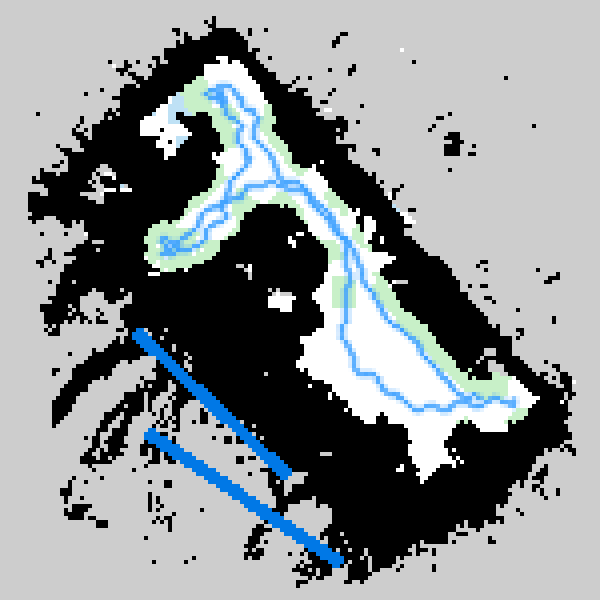
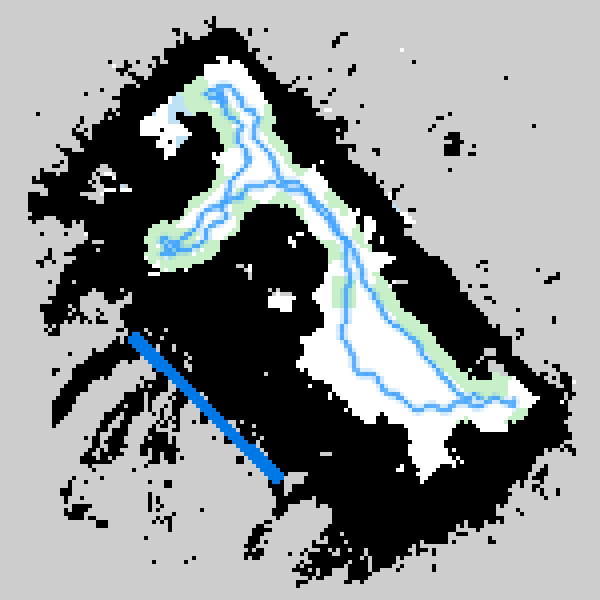
Glass walls: place at the density cliff, draw only when certain (on by default)
Across a candidate wall line, walking outward from the cameras: room contents
(dense), a sharp density cliff (stereo puts almost nothing on glass), >= 0.5 m
of near-empty space (reflections / see-through haze, < 5% of the room's peak
density), then real geometry beyond. The wall goes at the cliff; if any part
of that signature is missing, the line is skipped and nothing is drawn.
Parallel duplicates within 0.4 m are merged.

Real captures: office -> one 2.5 m glass wall at the room edge (previously
~1 m out in the atrium clutter); apartment -> none, map unchanged.

Changed region(s): [[0.21, 0.54, 0.57, 0.96]]

diff --git a/recon/robot_map.py b/recon/robot_map.py
@@ -102,7 +102,8 @@ def fit_floor(P, up, cam_centres, iters=600, seed=0, min_rel_support=0.10, min_d
 
 
 def find_glass_walls(Pw, Cw, z_band=(0.2, 2.2), thr=0.05, min_inliers=200, min_len=1.5,
-                     behind_min=1.0, behind_ratio=1.0, max_walls=6, suppress=0.3, seed=0):
+                     behind_min=1.0, behind_ratio=1.0, max_walls=6, suppress=0.3, seed=0,
+                     gap_bin=0.1, cliff_frac=0.1, low_frac=0.05, low_len=0.5, beyond_frac=0.05):
     """Vertical planes (lines in top view) that look like glass: things are seen *behind*
     them, on the side the walker never was.
 
@@ -110,9 +111,10 @@ def find_glass_walls(Pw, Cw, z_band=(0.2, 2.2), thr=0.05, min_inliers=200, min_l
     or window has a frame/mullions (some points on the line) and the world behind it
     (many points beyond). Returns [(p0, p1, ratio_behind)] segment endpoints in XY.
 
-    EXPERIMENTAL (build(detect_glass=True)): on the real office it found the glass side
-    and nothing in the apartment, but placed the line ~1 m beyond the glass, inside the
-    see-through clutter -- stereo rarely puts points on the glass itself."""
+    The wall is placed at the density cliff where the room's contents end (stereo puts
+    almost nothing on glass), and only when that cliff is followed by >= 0.5 m of
+    near-empty space and then real geometry beyond; otherwise the line is skipped, so the
+    detector only draws walls it is confident about."""
     rng = np.random.default_rng(seed)
     z = Pw[:, 2]
     Q = Pw[(z > z_band[0]) & (z < z_band[1]), :2]
@@ -162,14 +164,57 @@ def find_glass_walls(Pw, Cw, z_band=(0.2, 2.2), thr=0.05, min_inliers=200, min_l
         within = (along > t0) & (along < t1)
         behind = within & (dist_r * walk_side < -behind_min)
         ratio = behind.sum() / max(inl.sum(), 1)
-        if ratio > behind_ratio:
-            walls.append((a + t0 * t_dir, a + t1 * t_dir, float(ratio)))
+        if ratio <= behind_ratio:
+            continue
+        # Where is the glass? Walking from the cameras outward: room contents (dense, the
+        # peak is furniture against the glass), then a sharp density cliff (stereo puts
+        # almost nothing on glass), a long low stretch (reflections, see-through haze),
+        # and the world beyond. Wall goes at the cliff -- only if all of that is clearly
+        # there; otherwise this line is skipped (no guess).
+        sd = dist_r[within] * walk_side                 # + = walker's side
+        cam_s = np.median(c_dist[span] * walk_side)
+        edges = np.arange(-4.0, cam_s + gap_bin, gap_bin)
+        hist, edges = np.histogram(sd, bins=edges)
+        room_side = edges[:-1] >= 0
+        if not room_side.any() or hist[room_side].max() < min_inliers:
+            continue
+        peak_k = np.flatnonzero(room_side)[np.argmax(hist[room_side])]
+        peak = hist[peak_k]
+        found = None
+        for k in range(peak_k - 1, -1, -1):              # outward from the peak
+            if hist[k] < cliff_frac * peak:
+                n_low = int(round(low_len / gap_bin))
+                lo_k = k - n_low                         # the cliff bin itself may be on the slope
+                if lo_k < 0:
+                    break
+                if np.all(hist[lo_k:k] < low_frac * peak):
+                    beyond = hist[:lo_k].sum()
+                    room = hist[k + 1:].sum()
+                    if beyond >= beyond_frac * room:
+                        found = (edges[k + 1], room, beyond)
+                break                                    # first cliff decides
+        if found is None:
+            continue                                     # not certain: draw nothing
+        cliff, room, beyond = found
+        off = cliff * walk_side
+        p0 = a + t0 * t_dir + off * n
+        p1 = a + t1 * t_dir + off * n
+        dup = False
+        for q0, q1, _ in walls:  # same glass found twice (parallel, close): keep the first
+            dq = (q1 - q0) / max(np.linalg.norm(q1 - q0), 1e-9)
+            nq = np.array([-dq[1], dq[0]])
+            mid = 0.5 * (p0 + p1)
+            if abs(dq @ t_dir) > np.cos(np.radians(10)) and abs((mid - q0) @ nq) < 0.4:
+                dup = True
+                break
+        if not dup:
+            walls.append((p0, p1, float(beyond / max(room, 1))))
     return walls
 
 
 def build(ply, cameras_json, out, phone_height=1.4, metric=False, cell=0.05,
           robot_height=1.8, step_height=0.08, walk_radius=0.3, infer_gap=0.5, carve_radius=0.2,
-          below_floor=0.05, obst_ratio=0.5, reach_radius=3.5, detect_glass=False):
+          below_floor=0.05, obst_ratio=0.5, reach_radius=3.5, detect_glass=True):
     out.mkdir(parents=True, exist_ok=True)
     P, C = read_ply(ply)
     cams = json.loads(Path(cameras_json).read_text())
